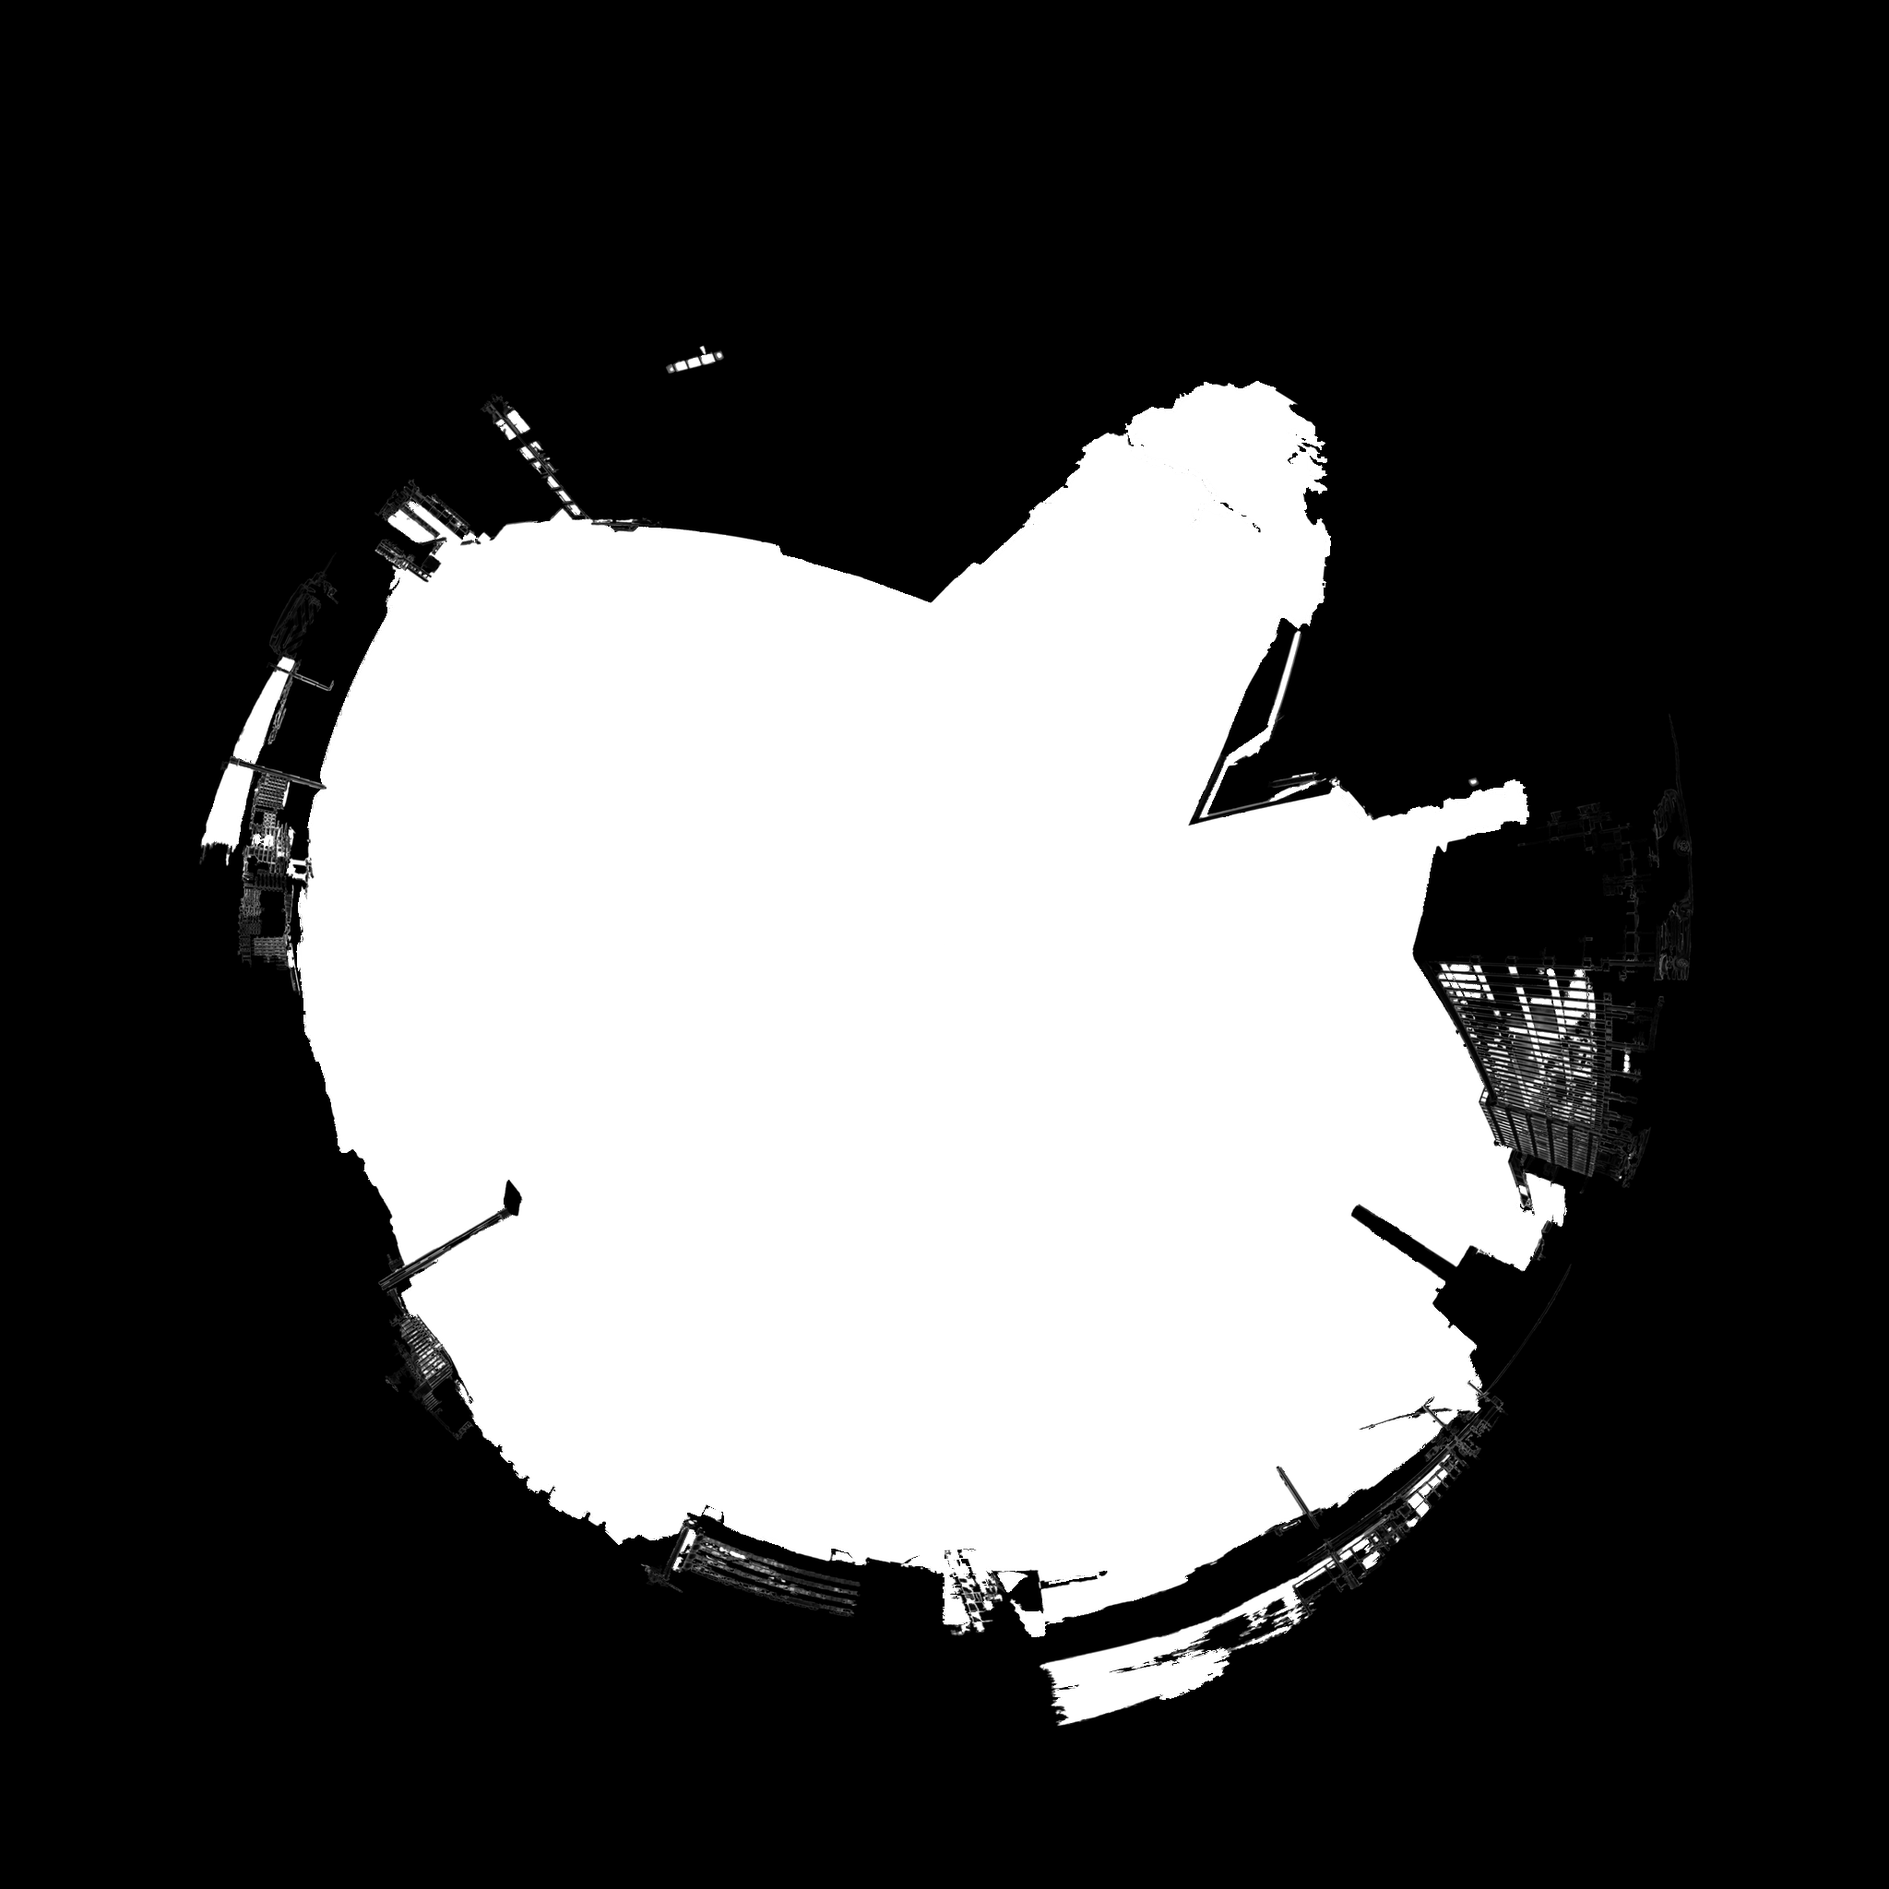
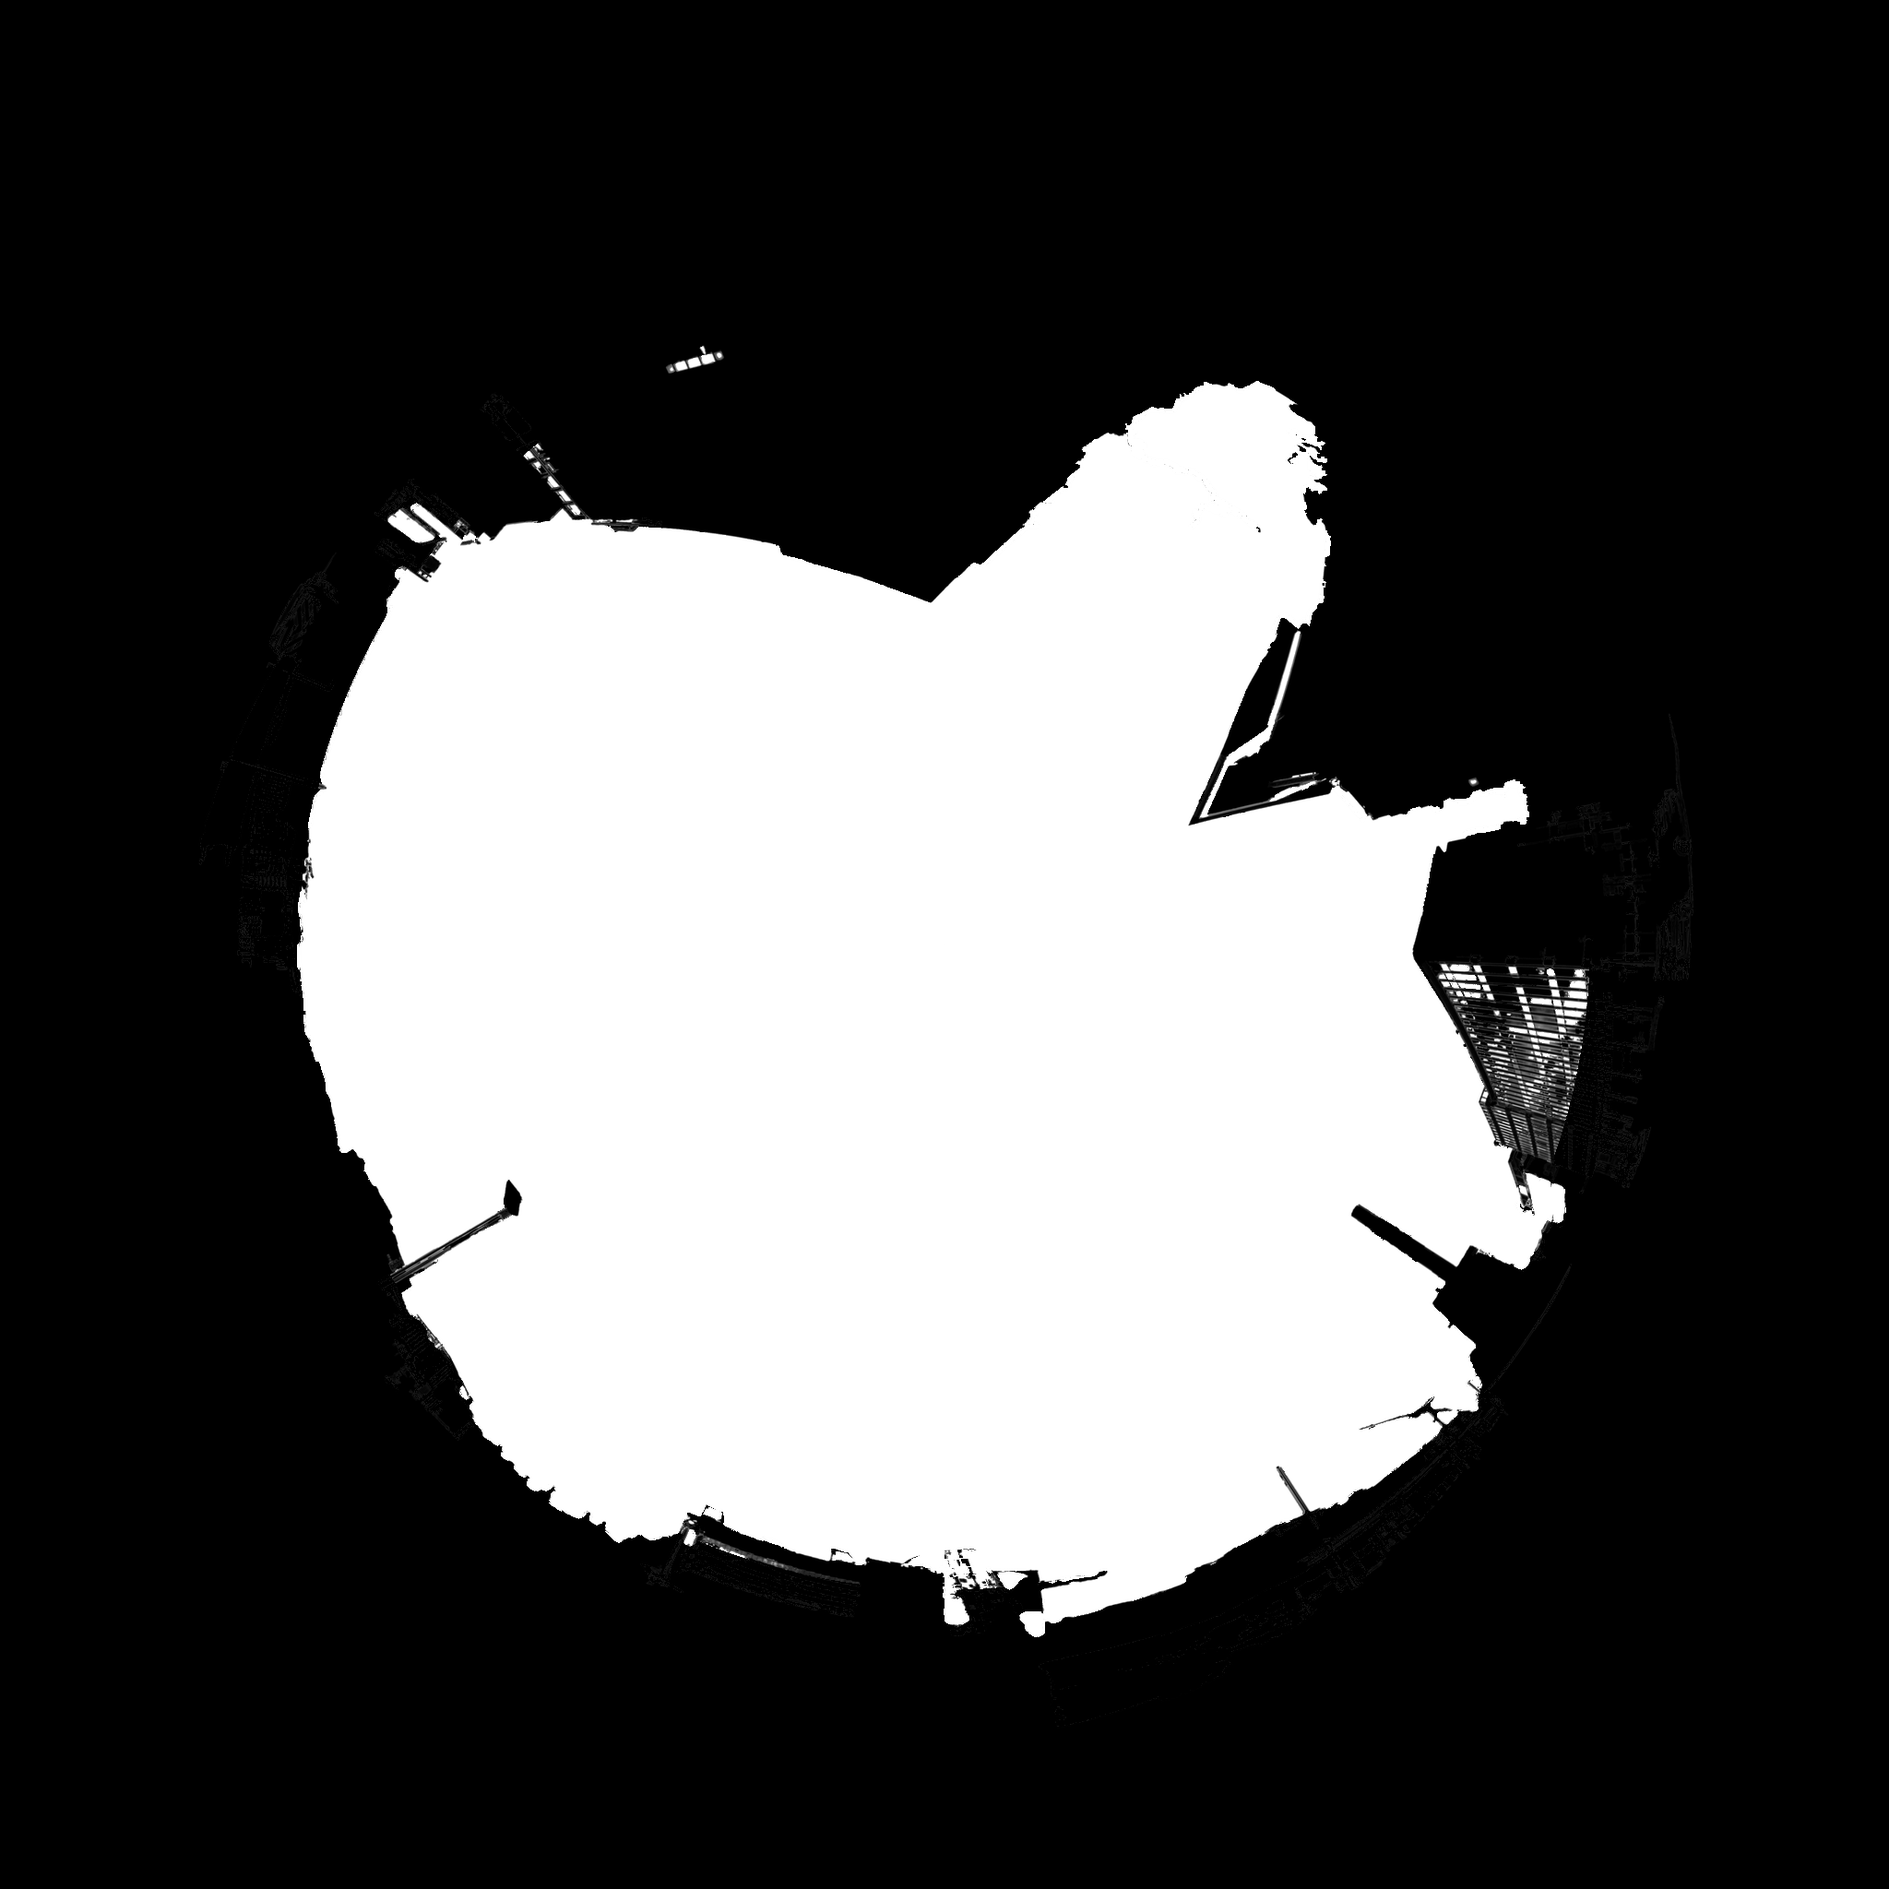
Lab: climb joiner round 2
Claude-Session: https://claude.ai/code/session_01RqENhngNCzDFmJWDZueXGV

diff --git a/src/app/lab/joiner/joinerEngine.js b/src/app/lab/joiner/joinerEngine.js
@@ -345,9 +345,9 @@ const SKY_VREF = 0.34; // clear-sky peak channel (linear) the film lays down at 
 //     the walls printed a stop under (exposed for the sunny sky they stand
 //     in, as a real worm's-eye frame would be), so the walls split in two:
 //     the recesses, the shade sides and the glass collapse on to a deep
-//     blue-black (about 0.06 on the print) that they never fall through,
-//     and the facades and poles read as crisp, dark silhouettes converging
-//     on the sky;
+//     blue (about 0.11 on the print) that they never fall through, still
+//     light enough to hold the window grids and mullions, and the facades
+//     and poles read as crisp, dark shapes converging on the sky;
 //   - light: the overcast's own cast (its grey-green, the blue stains and
 //     sky reflections on the concrete) comes off every face, and the faces
 //     above the shade take a clear warm ochre key, the colour of the 52
@@ -362,10 +362,16 @@ const SKY_VREF = 0.34; // clear-sky peak channel (linear) the film lays down at 
 //     holds the overcast) is choked to the wall's own tone just inside it,
 //     so a roofline cuts cleanly against the blue and only the finish's
 //     thin halation ring is left there;
-//   - low down: below about 15 degrees of elevation the plate is the far
-//     skyline seen nearly edge on, smeared and low-res, and it folds into
-//     one clean blue-black silhouette (the matte eroded a little there, so
-//     its pinholes and ragged fringe of old sky go with it).
+//   - far skyline: below about 10 degrees of elevation the matte is eroded
+//     a little, so the lattice of old sky it finds through the far scaffolds
+//     and cranes goes to the walls, and below about 16 a pale, neutral speck
+//     well above the wall round it (old sky through a window or a lattice)
+//     is printed down to just above that wall, so the far facades keep
+//     their grid without white flecks in it. Only the last sliver, below
+//     about 4 degrees, where the plate is smeared nearly edge on, folds into
+//     one clean silhouette at the shade's own deep blue. (The matte's
+//     pinholes, specks of sky wholly inside a structure, are closed in the
+//     bake: tools/depth/bakes/joiner/seal.py.)
 // One warm accent: the Docklands red crane on the quay stays; the red and
 // yellow chevrons of the van at the far kerb are muted to a neutral grey so
 // they stop competing with it across the cobalt.
@@ -375,11 +381,14 @@ const STRUCT_GRADE = {
   structPivot: 0.32, // pivot (linear print value) the contrast turns about: the plate's brighter facade, the side the sun would light
   structHaze: 0.06, // overcast veil taken off (linear print value)
   structEv: -1.0, // stops the walls are printed under: exposed for the sunny sky they stand against, not for themselves
-  structFloor: 0.06, // deep blue-black the shadows and glass are pulled on to (print value, sRGB)
+  structFloor: 0.11, // deep blue-black the shadows and glass are pulled on to (print value, sRGB)
   structWarm: 0.8, // strength of the warm key on the sunlit faces
-  structLow: 15, // elevation (degrees) below which the walls start to fold into one dark silhouette (fully by two thirds of it)
-  structGlass: 0.55, // cobalt mixed into the glass
+  structLow: 4, // elevation (degrees) below which the walls start to fold into one dark silhouette (fully by two thirds of it)
+  structGlass: 0.75, // cobalt mixed into the glass
   structEdge: 1, // strength of the rim choke
+  structSpeck: 1, // how far the far skyline's pale glints (old sky through a lattice or a window) are printed down
+  structSpeckLow: 16, // elevation (degrees) below which they are (fully by 60% of it)
+  structErode: 10, // elevation (degrees) below which the matte is eroded (fully by two thirds of it): the far skyline's lattice of sky goes to the walls
   mute: 0.95, // how far the van's chevrons are muted
 };
 const STRUCT_DEEP = srgbHex("#0B111D"); // the blue-black of the shade
@@ -419,6 +428,7 @@ uniform vec4 uStructKey; // floor (linear), warm, glass, edge
 uniform float uMute;     // how far the van's chevrons are muted
 uniform float uPlatePx;  // one plate pixel, print uv
 uniform vec2 uStructEv;  // stops the walls sit under the sky they stand in, sine of the elevation they fold into the shade below
+uniform vec3 uStructSpeck; // strength, sine of the elevation below which the far skyline's pale glints are printed down, and below which the matte is eroded
 uniform vec2 uTop;       // diffusion glow off the tops into the blue, shade split by the sun
 const vec3 LUMA = vec3(0.2126, 0.7152, 0.0722);
 const float THMAX = ${THMAX.toFixed(6)};
@@ -583,6 +593,15 @@ vec3 structGrade(vec3 lin, vec3 d) {
   float Lc = log2(Yc);
   float rel = wloc > 2.0 ? clamp(log2(Yb * choke) - yloc / wloc, -2.0, 2.0) : 0.0;
   float Lo = uStruct.z + uStruct.y * (Lc - uStruct.z) + 0.3 * rel - 0.7 * glass * uStructKey.z + uStructEv.x * (1.0 - paint);
+  // the far skyline's glints: low down, a pale, neutral-to-cool speck well
+  // above the wall round it is the old overcast seen through a scaffold, a
+  // crane's lattice or a window, which the matte left to the structure. It
+  // is printed down to just above its wall, so the facade keeps its grid
+  // without white flecks of another day's sky floating in it.
+  float brp = (c.b - c.r) / (c.b + 1e-4);
+  float far = 1.0 - smoothstep(0.6 * uStructSpeck.y, uStructSpeck.y, d.z);
+  float speck = smoothstep(0.3, 1.2, rel) * smoothstep(-0.1, 0.1, brp) * far * (1.0 - paint) * uStructSpeck.x;
+  Lo -= speck * (uStruct.y * max(rel - 0.25, 0.0) + 0.3 * rel);
   float Yo = exp2(Lo);
   Yo = Yo / pow(1.0 + pow(Yo / 0.95, 3.0), 1.0 / 3.0);
   float fl = uStructKey.x;
@@ -614,12 +633,12 @@ vec3 structGrade(vec3 lin, vec3 d) {
   float Ym = dot(c, LUMA);
   float hot = smoothstep(0.05, 0.3, (max(c.r, c.g) - c.b) / (max(c.r, c.g) + 1e-4));
   c = mix(c, Ym * vec3(0.98, 1.0, 1.02) * 0.85, mu * hot);
-  // low down, towards the disk's rim, the plate is the far skyline seen
-  // nearly edge on: smeared, low-res walls the matte only roughly cuts
-  // from the old sky. There the walls fold into one clean blue-black
-  // silhouette against the blue (the crane's paint stays its accent).
+  // the last sliver towards the disk's rim, the plate seen nearly edge on:
+  // smeared, low-res walls the matte only roughly cuts from the old sky.
+  // There the walls fold into one clean silhouette at the shade's own deep
+  // blue (the crane's paint stays its accent).
   float low = (1.0 - smoothstep(0.65 * uStructEv.y, uStructEv.y, d.z)) * (1.0 - paint);
-  c = mix(c, toLin(DEEP) * grain, low);
+  c = mix(c, deep * fl * grain, low);
   return mix(lin, c, uStruct.x);
 }
 
@@ -636,9 +655,9 @@ void main() {
   float m = raw.a;
   vec2 s = vec2(vUv.x - 0.5, 0.5 - vUv.y) * 2.0 * uHalf;
   vec3 d = normalize(uC * uF + uR * s.x + uD * s.y);
-  // Low down the matte is eroded a little: the far skyline's pinholes and
-  // ragged fringe of old sky go to the silhouette, so its edge is clean.
-  float lowM = 1.0 - smoothstep(0.65 * uStructEv.y, uStructEv.y, d.z);
+  // Low down the matte is eroded a little: the far skyline's lattice of old
+  // sky through scaffolds and cranes, and its ragged fringe, go to the walls.
+  float lowM = 1.0 - smoothstep(0.65 * uStructSpeck.z, uStructSpeck.z, d.z);
   if (lowM > 0.002 && m > 0.02) {
     float mn = m;
     for (int i = 0; i < 8; i++) {
@@ -647,10 +666,14 @@ void main() {
     }
     m = mix(m, mn, lowM);
   }
-  float st = 1.0 - smoothstep(0.1, 0.55, m);
+  // Under the horizon there is no sky to lay the deck in (below), so what
+  // the matte calls sky there, the river's reflections of the old overcast,
+  // is graded with the walls rather than left as the raw print.
+  float hz = smoothstep(0.01, 0.06, d.z);
+  float st = 1.0 - smoothstep(0.1, 0.55, m) * hz;
   vec3 linS = st > 0.002 ? mix(lin0, structGrade(lin0, d), st) : lin0;
   vec2 dith = vec2(hash12(gl_FragCoord.xy + uSeed), hash12(gl_FragCoord.yx + 5.3 + uSeed));
-  m = smoothstep(0.1, 0.55, m) * smoothstep(0.01, 0.06, d.z) * uSky.y;
+  m = smoothstep(0.1, 0.55, m) * hz * uSky.y;
   if (m < 0.002) {
     outColor = vec4(clamp(toSrgb(linS) + (dith.x + dith.y - 1.0) / 255.0, 0.0, 1.0), 1.0);
     return;
@@ -1592,6 +1615,7 @@ export async function createJoiner(host, { embedded = false } = {}) {
     gl.uniform1f(g.uMute, struct0.mute);
     gl.uniform1f(g.uPlatePx, (PLATE_RAD * F) / (img / f));
     gl.uniform2f(g.uStructEv, struct0.structEv, Math.sin((struct0.structLow * Math.PI) / 180));
+    gl.uniform3f(g.uStructSpeck, struct0.structSpeck, Math.sin((struct0.structSpeckLow * Math.PI) / 180), Math.sin((struct0.structErode * Math.PI) / 180));
     gl.uniform2f(g.uTop, grade0.glow, grade0.sunSplit);
     gl.drawArrays(gl.TRIANGLES, 0, 6);
     gl.activeTexture(gl.TEXTURE1);

diff --git a/tools/depth/bakes/joiner/seal.py b/tools/depth/bakes/joiner/seal.py
@@ -5,7 +5,24 @@
 # the sky finds every gap a few pixels wide; only the ones whose scene light is
 # sky-like (bright, near neutral or blue, nothing like a lamp post, cable or
 # crane) are returned to the sky, so thin structures keep their edges.
-# usage: python3 -I seal.py scene.webp mask.webp out-mask.webp
+#
+# The other way round, it closes the matte's pinholes: specks of sky, under
+# PIN plate pixels, wholly enclosed by structure. They are almost all the old
+# overcast glinting through a far roofline, a scaffold or a window reflection,
+# and once the walls are graded down they float inside the facade as white
+# specks of the new sky. Any sky island that small (counted at the shader's
+# threshold, everything the matte calls even a tenth sky) goes to the structure,
+# and so does every enclosed island, whatever its size, centred under LOWEL
+# degrees of elevation: down there the open sky that reaches the horizon is
+# all one piece with the main sky, and what the matte calls sky apart from it
+# is a far glass facade or the river's reflection of the overcast. That holds
+# too for a low pocket hung on the main sky by a neck under five pixels (a
+# window row or a lattice of scaffold that touches the sky at one corner): it
+# is cut off at the neck by an opening and goes the same way. The open
+# sky, the big glass reflections up the towers and every island that touches
+# the main sky are kept. Safe to re-run on a finished matte: the crack seal only
+# grows sky that is sky-like, the pinhole pass only shrinks islands.
+# usage: python3 -I seal.py scene.webp mask.webp out-mask.webp [preview.png] [pin]
 import sys, numpy as np, cv2
 from PIL import Image
 LO, HI = -8.0, 5.0
@@ -43,9 +60,42 @@ ok &= high > 0.99
 seal = gap & ok[lab] & (lab > 0)
 out = np.maximum(m, blur(seal.astype(np.float32), 0.8) * (seal | (m > 0.02)))
 out[seal] = 1.0
+# the pinholes: sky islands under PIN px, not connected to the rest of the sky
+PIN = int(sys.argv[5]) if len(sys.argv) > 5 else 40
+LOWEL = 8.0
+# low down, first, only solid sky is sky: an opening thirteen pixels across
+# takes the lattice of sky through the far scaffolds and window rows (and
+# leaves the open sky down to the horizon, a roofline's corner rounded at most)
+el = 90.0 - th
+isl = out > 0.1
+solid = cv2.morphologyEx(isl.astype(np.uint8), cv2.MORPH_OPEN, cv2.getStructuringElement(cv2.MORPH_ELLIPSE, (13, 13))) > 0
+lattice = isl & ~solid & (el < LOWEL)
+out[lattice] = 0.0
+isl = (out > 0.1).astype(np.uint8)
+n2, lab2, st2, cen2 = cv2.connectedComponentsWithStats(isl, 8)
+main = 1 + np.argmax(st2[1:, cv2.CC_STAT_AREA])
+el2 = 90.0 - np.hypot(cen2[:, 0] + 0.5 - N / 2, cen2[:, 1] + 0.5 - N / 2) / (N / 2) * 120.0
+pin = (st2[:, cv2.CC_STAT_AREA] < PIN) | (el2 < LOWEL)
+pin[0] = pin[main] = False
+hole = pin[lab2]
+op = cv2.morphologyEx(isl, cv2.MORPH_OPEN, cv2.getStructuringElement(cv2.MORPH_ELLIPSE, (5, 5)))
+n3, lab3, st3, _ = cv2.connectedComponentsWithStats(op, 8)
+main3 = 1 + np.argmax(st3[1:, cv2.CC_STAT_AREA])
+pk = (isl > 0) & (lab3 != main3) & ~hole
+n4, lab4, st4, cen4 = cv2.connectedComponentsWithStats(pk.astype(np.uint8), 8)
+el4 = 90.0 - np.hypot(cen4[:, 0] + 0.5 - N / 2, cen4[:, 1] + 0.5 - N / 2) / (N / 2) * 120.0
+low4 = el4 < LOWEL
+low4[0] = False
+pocket = low4[lab4]
+hole |= pocket | lattice
+# (the rim round an island is under a tenth sky, which the grade already
+# treats as wholly structure, so the island alone is cleared)
+out[hole] = 0.0
 Image.fromarray(np.round(np.clip(out, 0, 1) * 255).astype(np.uint8)).save(sys.argv[3], lossless=True, quality=100, method=6)
 print("gap px", int(gap.sum()), "sealed px", int(seal.sum()), "components", n - 1, "sealed", int(ok[1:].sum()))
-# preview of what was sealed (red) against what was left (blue)
+print("pinholes closed", int(pin[1:].sum()), "of", n2 - 1, "sky islands, and", int(low4.sum()), "low pockets,", int(hole.sum()), "px")
+# preview of what was sealed (red), the closed pinholes (white) and what was left (blue)
 if len(sys.argv) > 4:
     prev = np.dstack([np.where(seal, 255, 0), (m * 120).astype(np.uint8), np.where(gap & ~seal, 255, 0)]).astype(np.uint8)
+    prev[hole] = 255
     cv2.imwrite(sys.argv[4], prev[..., ::-1])
